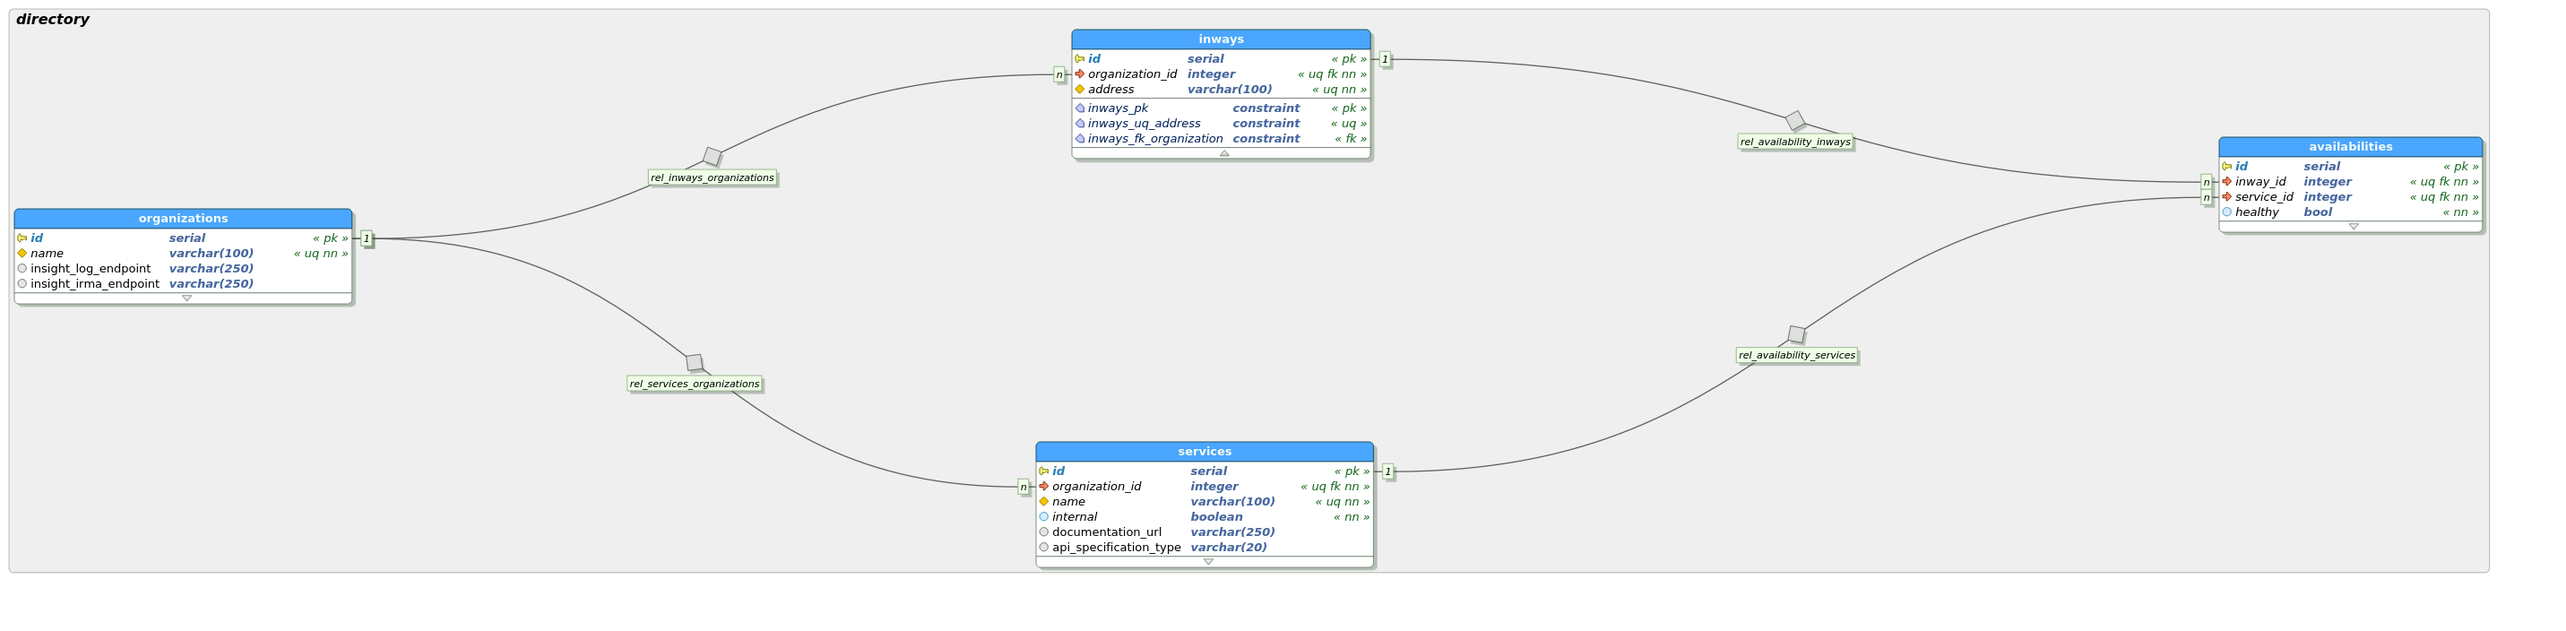
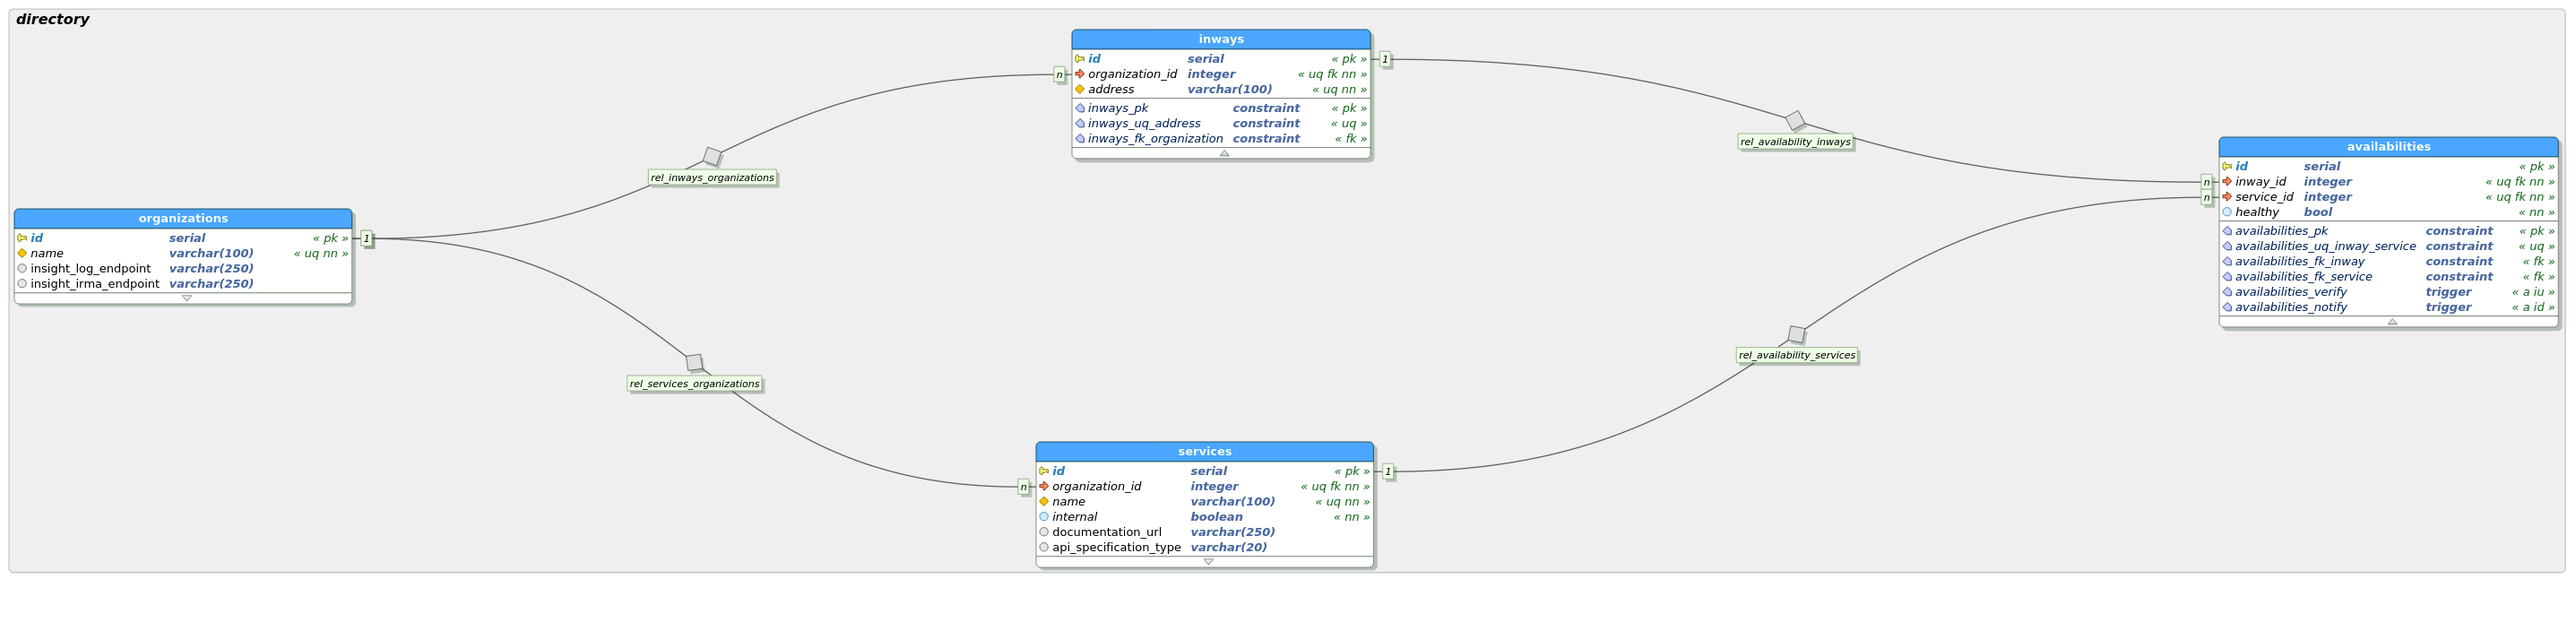
directory-monitor: added feature watch db using LISTEN/NOTIFY

diff --git a/directory-monitor/healthchecker.go b/directory-monitor/healthchecker.go
@@ -9,12 +9,13 @@ import (
 	"sync"
 	"time"
 
-	"go.nlx.io/nlx/common/process"
-
 	"github.com/jmoiron/sqlx"
+	"github.com/lib/pq"
 	"github.com/pkg/errors"
-	"go.nlx.io/nlx/directory-monitor/health"
 	"go.uber.org/zap"
+
+	"go.nlx.io/nlx/common/process"
+	"go.nlx.io/nlx/directory-monitor/health"
 )
 
 // HealthChecker checks the inways of a StoredService and modifies it's health state directly in the StoredService struct.
@@ -24,23 +25,31 @@ type healthChecker struct {
 	httpClient *http.Client
 
 	availabilitiesLock sync.RWMutex
-	availabilities     []availability
+	availabilities     map[uint64]*availability
 
 	stmtSelectAvailabilities *sqlx.Stmt
 	stmtUpdateHealth         *sqlx.Stmt
 }
 
 type availability struct {
-	ID               uint64
-	OrganizationName string
-	ServiceName      string
-	Address          string
+	ID               uint64 `json:"id"`
+	OrganizationName string `json:"organization_name"`
+	ServiceName      string `json:"service_name"`
+	Address          string `json:"address"`
 }
 
+type databaseAction struct {
+	Action       string        `json:"action"`
+	Availability *availability `json:"availability"`
+}
+
+const dbNotificationChannel = "availabilities"
+
 // RunHealthChecker starts a healthchecker process
-func RunHealthChecker(process *process.Process, logger *zap.Logger, db *sqlx.DB, caCertPool *x509.CertPool, certKeyPair tls.Certificate) error {
+func RunHealthChecker(process *process.Process, logger *zap.Logger, db *sqlx.DB, postgresDNS string, caCertPool *x509.CertPool, certKeyPair tls.Certificate) error {
 	h := &healthChecker{
-		logger: logger,
+		logger:         logger,
+		availabilities: make(map[uint64]*availability),
 		httpClient: &http.Client{Transport: &http.Transport{
 			TLSClientConfig: &tls.Config{
 				RootCAs:      caCertPool,
@@ -73,56 +82,103 @@ func RunHealthChecker(process *process.Process, logger *zap.Logger, db *sqlx.DB,
 		return errors.Wrap(err, "failed to prepare stmtUpdateHealth")
 	}
 
-	return h.run(process)
+	return h.run(process, postgresDNS)
 }
 
-func (h *healthChecker) run(process *process.Process) error {
-	chInitialLoad := make(chan struct{})
-	go func() {
-		for {
-			newAvailabilities := []availability{}
-			err := h.stmtSelectAvailabilities.Select(&newAvailabilities)
-			if err != nil {
-				h.logger.Error("failed to fetch availabilities", zap.Error(err))
-				time.Sleep(1 * time.Second)
-				continue
-			}
-
-			// replace availabilities slice in healthChecker
-			h.availabilitiesLock.Lock()
-			h.availabilities = newAvailabilities
-			h.availabilitiesLock.Unlock()
-
-			// signal initial load has completed
-			select {
-			case chInitialLoad <- struct{}{}:
-			default:
-			}
-
-			// TODO: #207 use NOTIFY structure on postgres instead of reloading
-			// refresh this list every 10 seconds
-			time.Sleep(10 * time.Second)
+func (h *healthChecker) run(process *process.Process, postgressDNS string) error {
+	listenerErrorCallback := func(ev pq.ListenerEventType, err error) {
+		if err != nil {
+			h.logger.Error("error listening for db events", zap.Error(err))
 		}
-	}()
+	}
+	listener := pq.NewListener(postgressDNS, 10*time.Second, time.Minute, listenerErrorCallback)
+	err := listener.Listen(dbNotificationChannel)
+	if err != nil {
+		panic(err)
+	}
+	process.CloseGracefully(listener.Close)
 
-	<-chInitialLoad // wait for initial load to be done
+	shutDownNotificationListener := make(chan struct{})
+	process.CloseGracefully(func() error {
+		close(shutDownNotificationListener)
+		return nil
+	})
+	go h.waitForNotification(listener, shutDownNotificationListener)
+
+	newAvailabilities := []*availability{}
+	err = h.stmtSelectAvailabilities.Select(&newAvailabilities)
+	if err != nil {
+		return err
+	}
+
+	h.availabilitiesLock.Lock()
+	for _, availability := range newAvailabilities {
+		h.availabilities[availability.ID] = availability
+	}
+	h.availabilitiesLock.Unlock()
+
 	shutDown := make(chan struct{})
 	process.CloseGracefully(func() error {
 		close(shutDown)
 		return nil
 	})
+
 	for {
 		select {
 		case <-time.After(5 * time.Second):
 			h.availabilitiesLock.RLock()
 			for _, av := range h.availabilities {
-				go h.checkAvailabilityHealth(av)
+				go h.checkAvailabilityHealth(*av)
 			}
 			h.availabilitiesLock.RUnlock()
 		case <-shutDown:
 			return nil
 		}
 	}
+}
+
+func (h *healthChecker) waitForNotification(l *pq.Listener, c <-chan struct{}) {
+	for {
+		select {
+		case n := <-l.Notify:
+			dbAction := &databaseAction{}
+			err := json.Unmarshal([]byte(n.Extra), dbAction)
+			if err != nil {
+				h.logger.Error("Error processing JSON", zap.Error(err))
+				continue
+			}
+			switch dbAction.Action {
+			case "INSERT":
+				h.addAvailability(dbAction.Availability)
+			case "DELETE":
+				h.removeAvailability(dbAction.Availability.ID)
+			default:
+				h.logger.Error("unknown database action", zap.String("database action", dbAction.Action))
+			}
+		case <-time.After(90 * time.Second):
+			// Check connection after 90 seconds without a notification
+			go func() {
+				if err := l.Ping(); err != nil {
+					h.logger.Error("error pinging DB listener", zap.Error(err))
+				}
+			}()
+		case <-c:
+			return
+
+		}
+	}
+}
+
+func (h *healthChecker) addAvailability(a *availability) {
+	h.availabilitiesLock.Lock()
+	h.availabilities[a.ID] = a
+	h.availabilitiesLock.Unlock()
+}
+
+func (h *healthChecker) removeAvailability(id uint64) {
+	h.availabilitiesLock.Lock()
+	delete(h.availabilities, id)
+	h.availabilitiesLock.Unlock()
 }
 
 func (h *healthChecker) checkAvailabilityHealth(av availability) {

diff --git a/directory-monitor/cmd/nlx-directory-monitor/main.go b/directory-monitor/cmd/nlx-directory-monitor/main.go
@@ -55,6 +55,7 @@ func main() {
 	if err != nil {
 		logger.Fatal("could not open connection to postgres", zap.Error(err))
 	}
+
 	db.MapperFunc(xstrings.ToSnakeCase)
 	process.CloseGracefully(db.Close)
 	dbversion.WaitUntilLatestDirectoryDBVersion(logger, db.DB)
@@ -68,7 +69,7 @@ func main() {
 		logger.Fatal("failed to load x509 keypair for monitor", zap.Error(err))
 	}
 
-	err = monitor.RunHealthChecker(process, logger, db, caCertPool, certKeyPair)
+	err = monitor.RunHealthChecker(process, logger, db, options.PostgresDSN, caCertPool, certKeyPair)
 	if err != nil && err != context.DeadlineExceeded {
 		logger.Fatal("failed to run monitor healthchecker", zap.Error(err))
 	}

diff --git a/directory-db/dbversion/version.go b/directory-db/dbversion/version.go
@@ -2,4 +2,4 @@ package dbversion
 
 // LatestDirectoryDBVersion is the latest version for the db migrations.
 // Components that use the database should verify using the migrate package their
-const LatestDirectoryDBVersion = 6
+const LatestDirectoryDBVersion = 7
